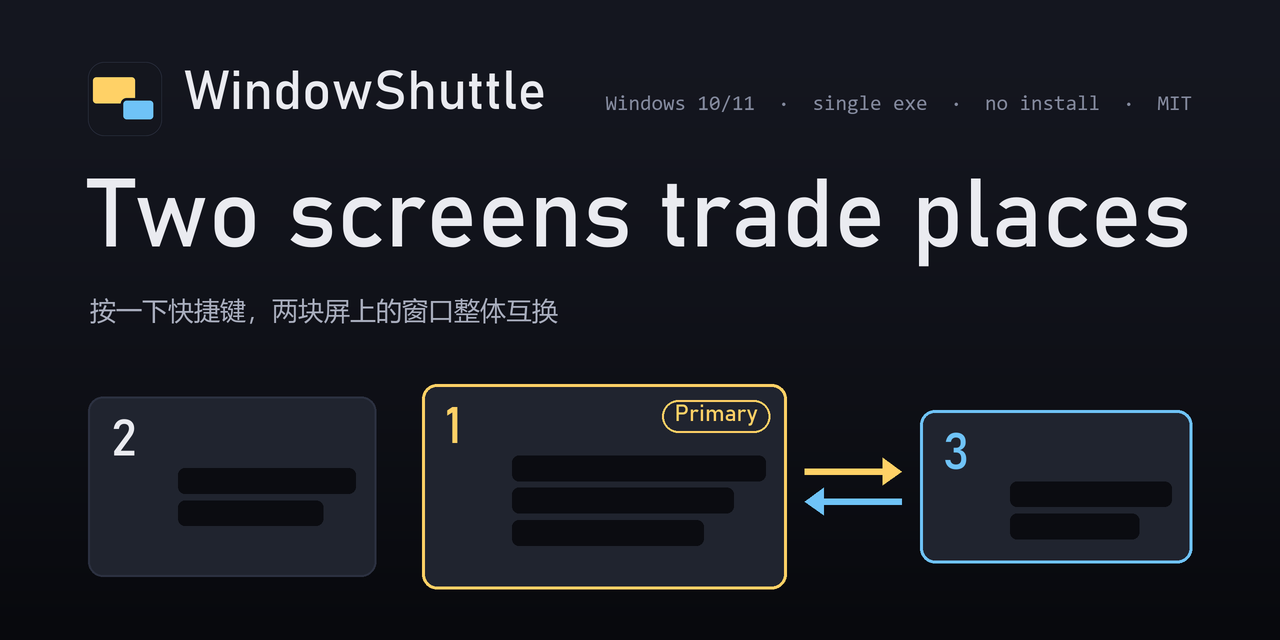
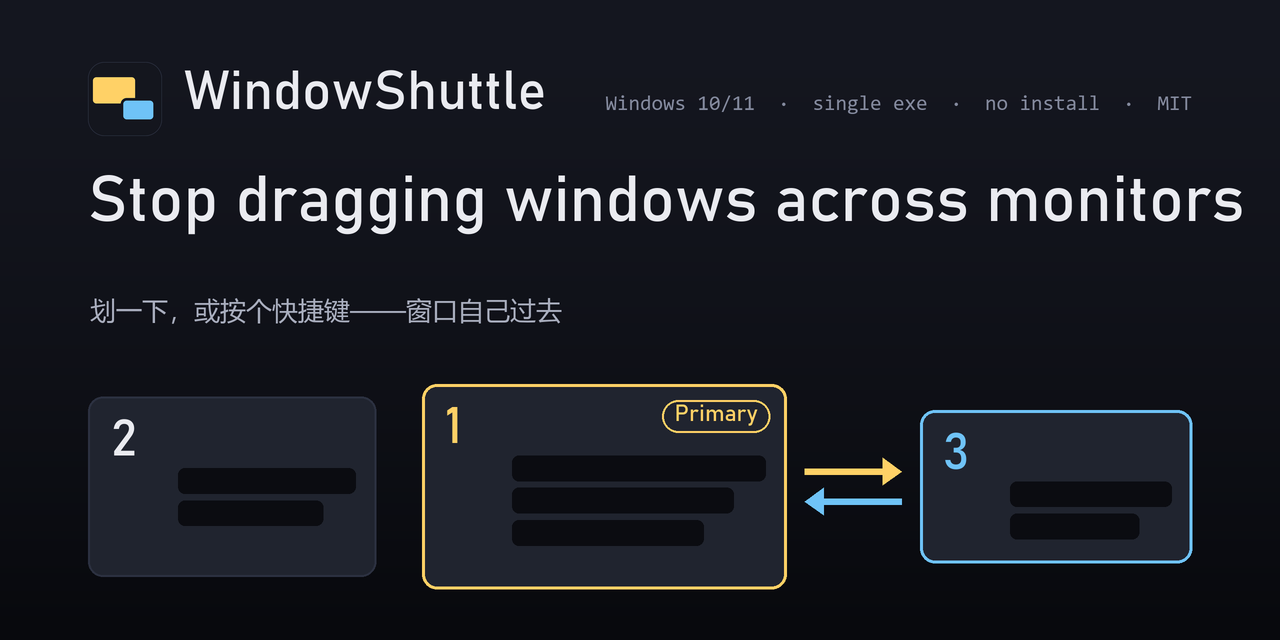
copy: reposition around 'move windows without dragging' instead of the whole-screen swap
The swap is one of seven actions but had taken over the one-liner, the
positioning paragraph, the repo description, the exe description and the
social card headline.

Changed region(s): [[0.0625, 0.25, 0.9688, 0.4062], [0.125, 0.4688, 0.4375, 0.5312], [0.0625, 0.4688, 0.0938, 0.5]]

diff --git a/tools/branding/make_branding.py b/tools/branding/make_branding.py
@@ -244,7 +244,7 @@ def render_social_card(w: int = 1280, h: int = 640, supersample: int = 2) -> Ima
     # scale so it spans the column exactly. The clamp is the guard — copy half this length would
     # otherwise produce absurd type, and a card generator that can render absurd type eventually
     # will. Bahnschrift is a variable-width face, so this has to be measured, not calculated.
-    HEADLINE = "Two screens trade places"
+    HEADLINE = "Stop dragging windows across monitors"
     probe = S(100)
     fitted = int(probe * S(MEASURE) / d.textlength(HEADLINE, font=font("bahnschrift.ttf", probe)))
     head = font("bahnschrift.ttf", max(S(64), min(fitted, S(108))))
@@ -264,11 +264,16 @@ def render_social_card(w: int = 1280, h: int = 640, supersample: int = 2) -> Ima
     # The Chinese line carries the mechanism the English headline leaves out, so a bilingual reader
     # gets claim + how, and a reader of either language alone still gets one complete thought.
     #
-    # Headline and picture have to be the same feature. An earlier pass paired "Flick a window to the
-    # next screen" with this strip, and they describe different things: the flick moves ONE window in
-    # a direction, while the marker between screens 1 and 3 says those two exchange everything they
-    # hold. The picture won — it is the namesake action, and it is what the README leads with.
-    d.text((S(LEFT + 2), S(292)), "按一下快捷键，两块屏上的窗口整体互换", font=zh, fill=p["dim"])
+    # Headline and picture have to agree. An earlier pass paired "Flick a window to the next screen"
+    # with this strip and they described different things — the flick moves ONE window in a direction,
+    # while the marker between screens 1 and 3 says those two exchange everything they hold.
+    #
+    # The headline is now the *problem* rather than one of the seven actions, which is what lets it sit
+    # over this picture honestly: an exchange between two screens is one way of not dragging, and so is
+    # every other action in the app. Naming the action was also just too narrow — the whole-screen swap
+    # is one seventh of what this does, and it had quietly taken over the one-liner, the positioning
+    # paragraph and the repo description as well.
+    d.text((S(LEFT + 2), S(292)), "划一下，或按个快捷键——窗口自己过去", font=zh, fill=p["dim"])
 
     # The strip is the app's own monitor map, drawn to the same rules: each screen sized to how large
     # it looks on the desk, the primary outlined in Beam, the cursor's screen in Live. Showing the

diff --git a/README.md b/README.md
@@ -1,6 +1,6 @@
 # WindowShuttle
 
-> Swap window contents between monitors with a hotkey
+> Move windows between monitors without dragging — one at a time, or a whole screen at once
 
 [⬇ Download for Windows](https://github.com/rockbenben/WindowShuttle/releases/latest) · [简体中文](README.zh.md)
 
@@ -8,13 +8,13 @@
 
 ![WindowShuttle's main window: a scaled map of the connected monitors with the windows on each, above a list of actions with shortcut and mouse-gesture slots](docs/images/main-en.png)
 
-**Press a hotkey, and every window on the screen you're working on swaps places with every window on the primary monitor** — sizes and positions rescale to fit, so a window coming from a 150%-DPI display lands at a sane size on a 100% one instead of just being teleported pixel-for-pixel. WindowShuttle lives in the tray; there's nothing to configure to get the core swap working.
+**Getting a window onto another monitor should not be a drag across the desk.** Hold `Ctrl` and the right button, flick toward the screen you want, and the window under your cursor is already there — no screen numbers to work out first. Need the whole screen instead? One hotkey trades every window between the screen you're on and the primary. Either way the geometry is recomputed for the destination, so a window coming off a 150%-DPI display lands at a sane size on a 100% one instead of being teleported pixel-for-pixel — and a window snapped to the left half arrives snapped to the left half. WindowShuttle lives in the tray and works out of the box.
 
-- A single portable exe — no installer, no account, nothing phoned home.
-- **Hold `Ctrl` + right button and flick toward a screen** — the window under the cursor moves there. No screen numbers to remember; you flick the way you're already pointing. Misflicked? `Ctrl` + middle-click takes it back.
-- Seven kinds of window-moving action, all reachable from the tray menu and the CLI.
-- The map at the top of the main window is drawn from where your monitors actually sit, and you can work in it directly: drag a window from the map onto another monitor's card to send it there.
-- Windows only (it moves real HWNDs with `SetWindowPos`/`DeferWindowPos`); mixed-DPI multi-monitor setups are the main use case, not an edge case.
+- **Flick, don't aim.** `Ctrl` + right button, throw the pointer at a screen, let go. You were already pointing at it, so there is no screen number to translate first. Misflicked? `Ctrl` + middle-click puts it back.
+- **One window or the whole screen, same tool.** Seven actions on one scale: send this one somewhere, trade two screens outright, or gather everything home after a monitor comes off. All of them from the keyboard, the mouse, the tray menu or the CLI.
+- **Geometry is recomputed, not copied.** Mixed DPI is the main case, not an edge case: sizes are rescaled for the destination, maximized stays maximized, minimized restores on the new screen, and a snapped window keeps its half or its quarter.
+- **The map is the control surface.** The panel at the top draws your monitors at the size and position they actually have on your desk — drag a window from one card to another and it moves.
+- **Nothing to commit to.** One portable exe, no installer, no account, nothing phoned home. Windows only (it moves real HWNDs with `SetWindowPos`/`DeferWindowPos`).
 
 ## Does it fit your setup
 

diff --git a/README.zh.md b/README.zh.md
@@ -1,6 +1,6 @@
 # WindowShuttle
 
-> 按热键把鼠标所在屏与主屏的窗口整块对调
+> 在多块屏之间搬窗口，不用拖：一次一扇，或整块屏一起换
 
 [⬇ 下载 Windows 版](https://github.com/rockbenben/WindowShuttle/releases/latest) · [English](README.md)
 
@@ -8,13 +8,13 @@
 
 ![WindowShuttle 主窗口：上半是按实际观感绘制的显示器布局图，标出每块屏上的窗口；下半是动作列表，每个动作带快捷键位和鼠标手势位](docs/images/main-zh.png)
 
-**按一下热键，你正在用的那块屏上的所有窗口，就和主屏上的所有窗口整体互换位置** ——大小和位置会按目标屏重新计算，所以从 150% 缩放的屏换到 100% 缩放的屏上，窗口落地时是个合理的尺寸，不是原样像素对调过去就完事。WindowShuttle 常驻托盘，装上就能用，核心的整屏互换不需要任何配置。
+**把窗口挪到另一块屏，不该是一次横跨桌面的拖拽。** 按住 `Ctrl` 和右键，往目标屏的方向划一下，光标下那扇窗就已经在那儿了——不用先把「那是第几块屏」想明白。要整块屏一起动？一个快捷键把你所在屏和主屏的窗口全部对调。两种量级的落位都按目标屏重算几何：从 150% 缩放的屏过到 100% 的屏，窗口落地是个合理尺寸，不是原样像素照搬；贴在左半屏的窗口，过去还是左半屏。WindowShuttle 常驻托盘，装上就能用。
 
-- 单文件绿色版，无需安装、无需账号、不联网。
-- **按住 `Ctrl` 右键往某个方向划一下**，鼠标下的窗口就搬到那个方向的屏上——不用记屏号，往哪比划就去哪；划错了 `Ctrl`+中键 收回来。
-- 七种搬窗动作，托盘菜单和命令行都能触达。
-- 主窗口上半那张图是按显示器实际摆放位置画的，也能直接操作：把某扇窗从图上拖到另一块屏的卡片上，那扇窗就搬过去。
-- 仅支持 Windows（靠 `SetWindowPos`/`DeferWindowPos` 直接搬 HWND）；混合 DPI 的多屏环境是主场景，不是边缘情况。
+- **靠划，不靠瞄。** `Ctrl`+右键，往那块屏一甩，松手。你本来就在朝它比划，不用先把「那是第几块屏」翻译出来。划错了 `Ctrl`+中键 收回来。
+- **一扇窗和一整块屏，同一个工具。** 七个动作在同一条量级上：把这一扇送过去、把两块屏整个对调、拔了屏之后把散落的全收回来。键盘、鼠标、托盘菜单、命令行都能触达。
+- **几何是重算的，不是照搬的。** 混合 DPI 是主场景不是边缘情况：尺寸按目标屏缩放，最大化仍是最大化，最小化还原到新屏，贴边分屏的窗口过去还占着那半边、那个角。
+- **地图就是操作台。** 上半那张图按显示器在你桌上的真实大小和位置绘制——把窗口从一张卡片拖到另一张，它就过去了。
+- **不用做任何承诺。** 单文件绿色版，无需安装、无需账号、不联网。仅支持 Windows（靠 `SetWindowPos`/`DeferWindowPos` 直接搬 HWND）。
 
 ## 它认不认你的机器
 
